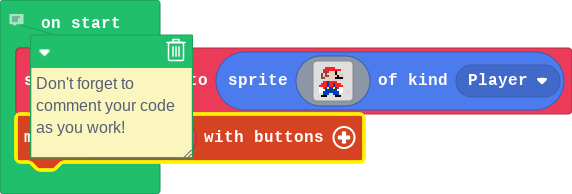
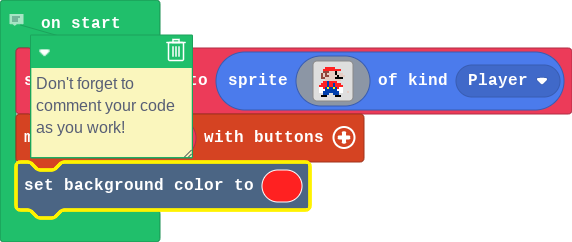
red

diff --git a/main.ts b/main.ts
@@ -18,3 +18,4 @@ let mySprite = sprites.create(img`
     . . f f f . . . . f f f . . . . 
     `, SpriteKind.Player)
 controller.moveSprite(mySprite)
+scene.setBackgroundColor(2)
